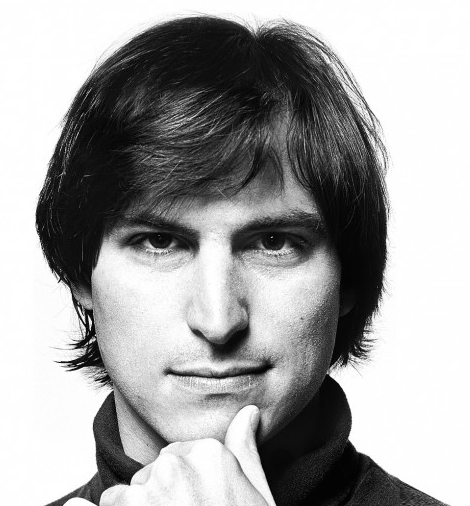
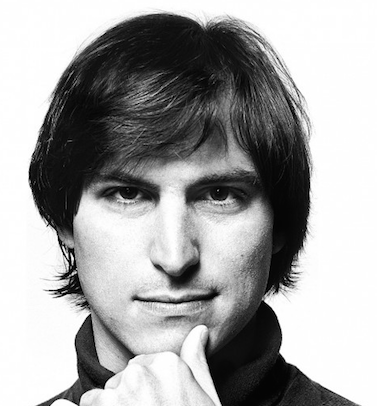
Reduced the size of steve image

diff --git a/src/templates/landing.html b/src/templates/landing.html
@@ -25,7 +25,7 @@
         <div class="fullscreen-section white-background">
             <div class="centered-full-screen-element">
                 <div class="width960 row sec-steve-content">
-                    <div class="col-sm-6 bg-img-fullscreen sec-steve-img" style="background-image:url('{{steve_img}}')">
+                    <div class="col-sm-6 bg-img-fullscreen sec-steve-img" style="background-image:url('/assets/img/landing/steve.png')">
                     </div>
                     <div class="col-sm-6">
                         {% include "components/centered_content.html" with centered=steve_centered%}

diff --git a/src/assets/css/new_landing.css b/src/assets/css/new_landing.css
@@ -162,7 +162,8 @@
 }
 
 .sec-steve-img {
-    height: 506px;
+    height: 406px;
+    background-size: contain !important;
 }
 
 .sec-steve-copy-big {
@@ -245,7 +246,6 @@
 
 @media (max-width: 767px) {
     .sec-steve-img{
-        background-size: contain !important;
         height: 300px !important;
     }
 

diff --git a/src/handlers/web/index.py b/src/handlers/web/index.py
@@ -34,7 +34,7 @@ def get_steve_centered_contents():
         ("Steve Jobs, 1984",["header-3", "right-align"]),
         ("Urban legend has it that the original Macintosh team flew a Pirate flag over the building as they raced against time and naysayers to build the Mac.",["normal-copy"])]
     contents = [CenteredContent(s[0], s[1]) for s in contents_arr]
-    return CenteredContents(508, 0, contents)
+    return CenteredContents(406, 0, contents)
 
 def get_footer_centered_contents():
     contents_arr = [("HIRE PIRATES","landing-copy-big", None),
@@ -53,7 +53,6 @@ def get_template_values_for_landing():
     template_values['steve_centered'] = get_steve_centered_contents()
     template_values['footer_centered'] = get_footer_centered_contents()
     template_values['donuts'] = DonutFactory.get_donuts(128, 0.8, [('Design', 0.58), ('Dev', 0.75), ('Domain', 0.28)], '#ffffff', '#139fe1', '#333333')
-    template_values['steve_img'] = '/assets/img/landing/steve.png'
     template_values['community_carousel'] = Carousel()
     template_values['tracking_carousel'] = TrackingCarousel()
     template_values['no_navbar_onload'] = True
